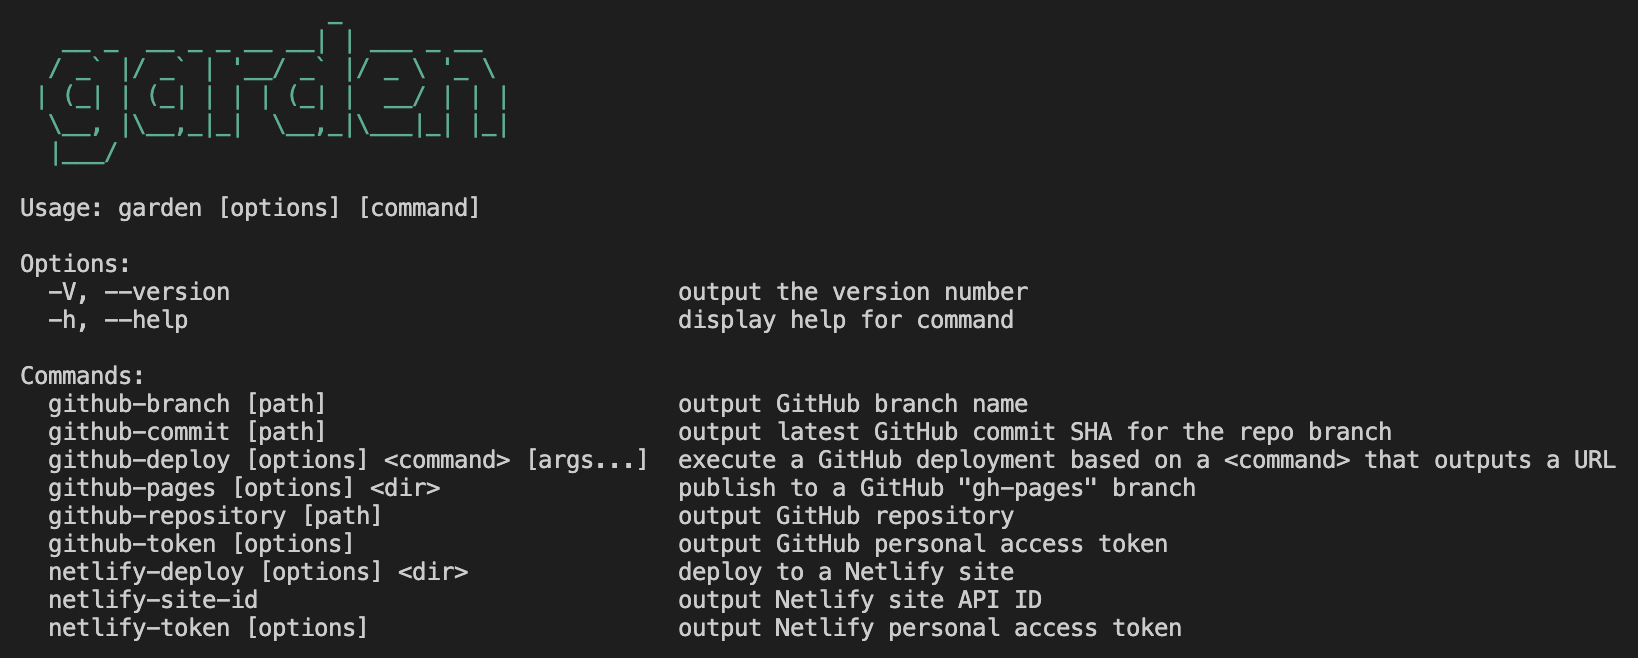
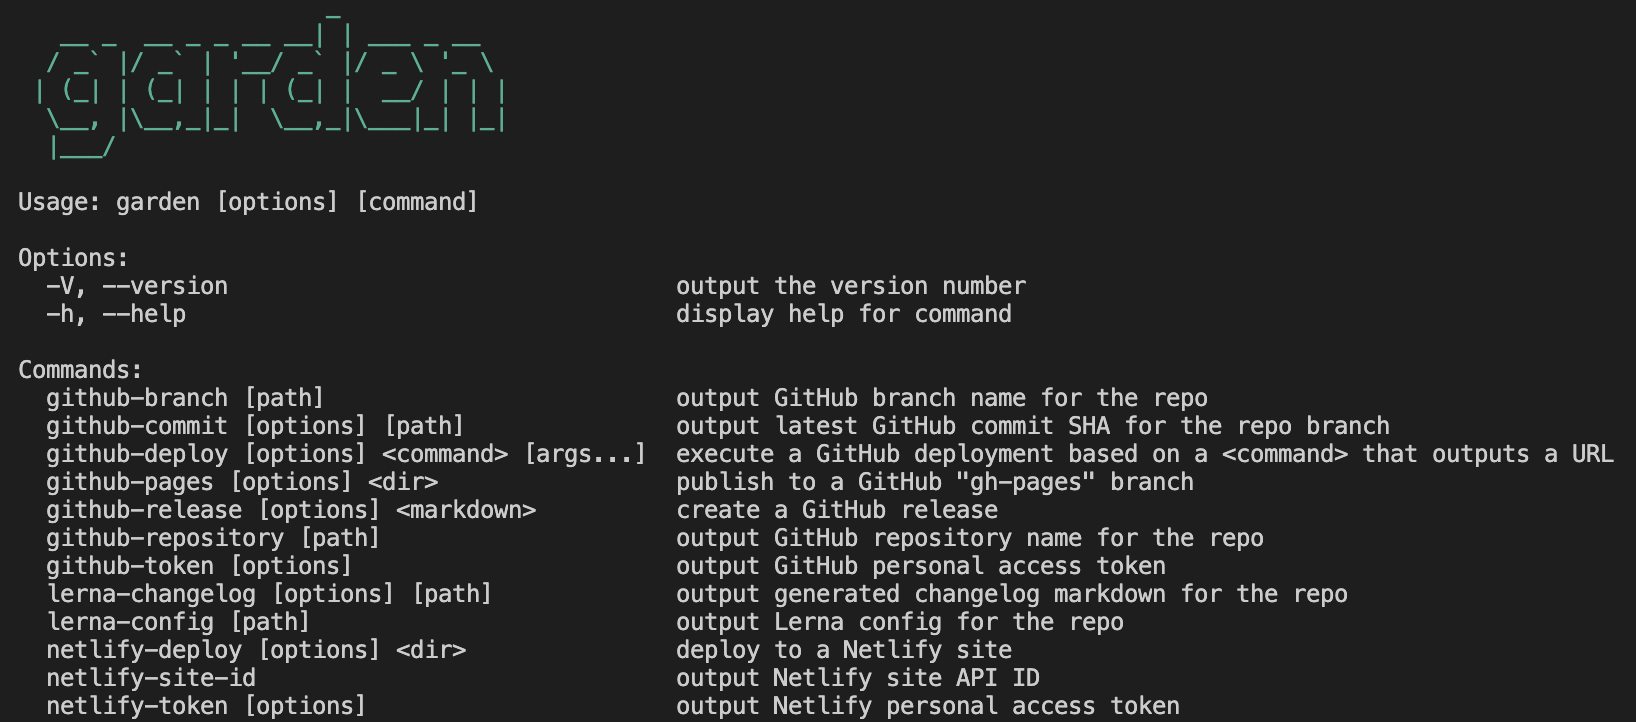
Add documentation for `lerna-config` command

Changed region(s): [[0.4053, 0.3647, 0.9976, 1.0], [0.0, 0.0304, 0.3741, 1.0]]

diff --git a/src/lerna/config/index.ts b/src/lerna/config/index.ts
@@ -16,6 +16,14 @@ interface ILernaConfigArgs {
   spinner?: Ora;
 }
 
+/**
+ * Execute the `lerna-config` command.
+ *
+ * @param {string} [args.path] Path to a git directory.
+ * @param {Ora} [args.spinner] Terminal spinner.
+ *
+ * @returns {Promise<any>} The object result of the config command.
+ */
 export const execute = async (args: ILernaConfigArgs = {}): Promise<any | undefined> => {
   let retVal: any | undefined;
 

diff --git a/README.md b/README.md
@@ -43,6 +43,7 @@ the individual command README for details.
 - [`garden github-repository`](src/github/repository#readme)
 - [`garden github-token`](src/github/token#readme)
 - [`garden lerna-changelog`](src/lerna/changelog#readme)
+- [`garden lerna-config`](src/lerna/config#readme)
 - [`garden netlify-deploy`](src/netlify/deploy#readme)
 - [`garden netlify-site-id`](src/netlify/site_id#readme)
 - [`garden netlify-token`](src/netlify/token#readme)

diff --git a/src/lerna/config/README.md b/src/lerna/config/README.md
@@ -1,0 +1,25 @@
+# `garden lerna-config`
+
+Get the Lerna configuration for a git repository.
+
+## Usage
+
+```ts
+import { lernaConfig } from '@zendeskgarden/scripts';
+
+(async () => {
+  const config = await lernaConfig(path?: string);
+
+  console.log(JSON.stringify(config));
+})();
+```
+
+### Arguments
+
+- `path` optional path to a git directory; defaults to the current directory.
+
+## Command
+
+```sh
+garden lerna-config [path]
+```
